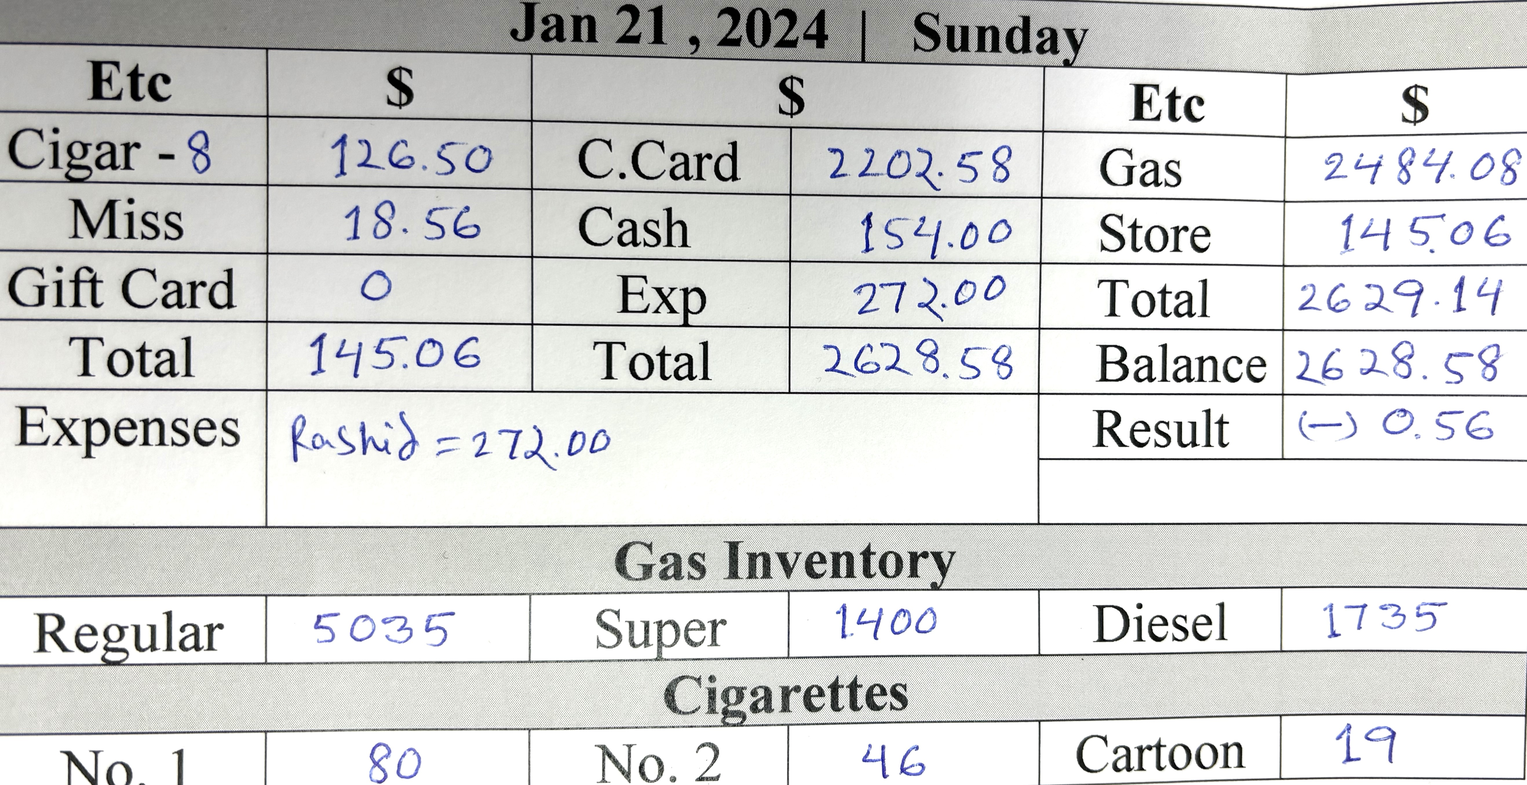
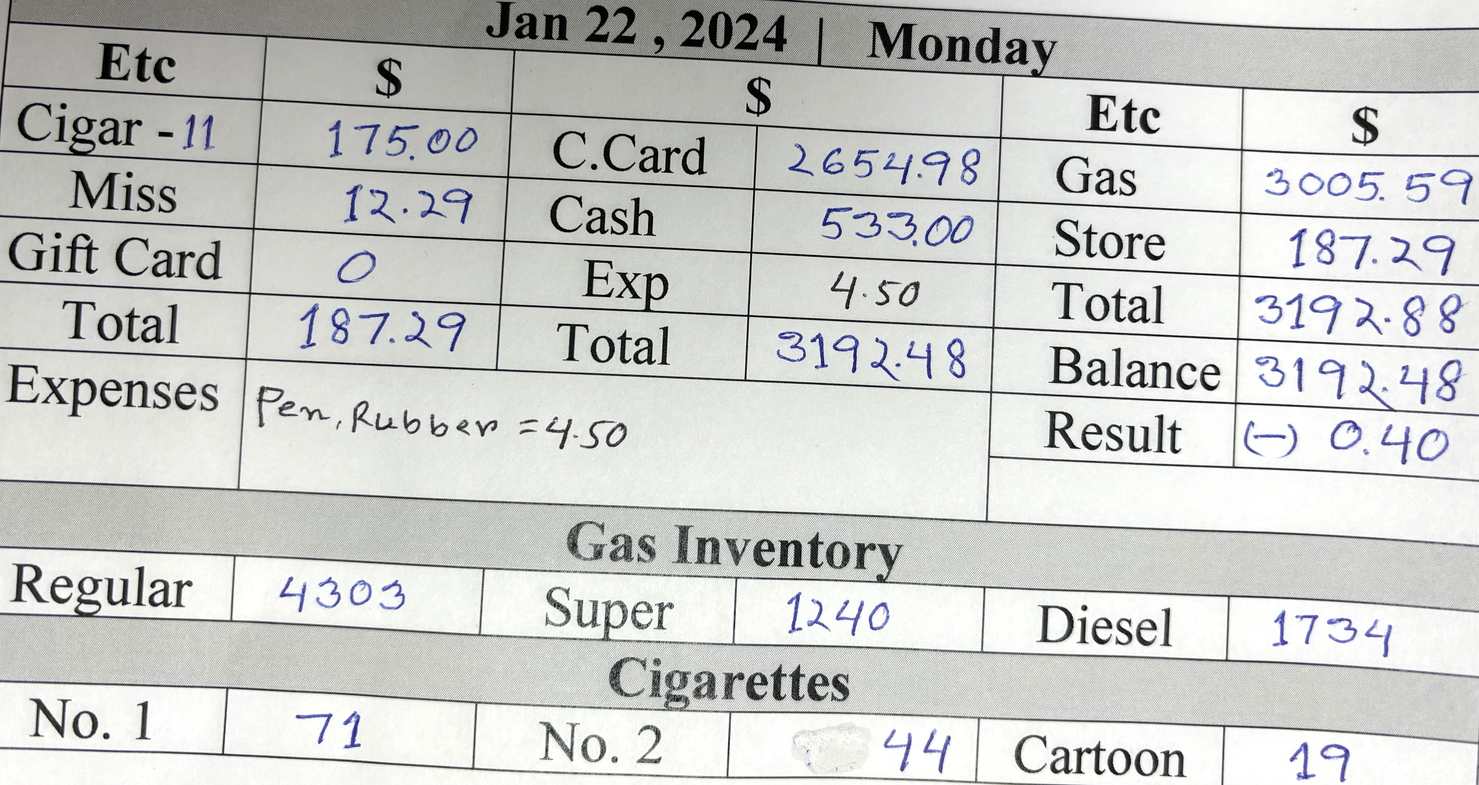
22 done

diff --git a/card.min.html b/card.min.html
@@ -1,1 +1,1 @@
-<!DOCTYPE html> <html lang="en"> <head> <meta charset="UTF-8"> <meta http-equiv="X-UA-Compatible" content="IE=edge"> <meta name="viewport" content="width=device-width,initial-scale=1"> <title>Gallon Info</title> <link rel="stylesheet" href="https://cdn.jsdelivr.net/npm/bootstrap@5.3.0-alpha1/dist/css/bootstrap.min.css"> </head> <body> <div class="card-group d-sm-flex flex-row bd-highlight mb- justify-content-center"> <div class="card bg-secondary align-items-center justify-content-center" style="height:50px"> <div class="card-body text-info fst-italic"> <h5 class="card-title fw-bolder text-center">Regular Price : <span class="text-warning">$3.09</span></h5> </div> </div> <div class="card bg-secondary align-items-center justify-content-center" style="height:50px"> <div class="card-body text-info fst-italic"> <h5 class="card-title fw-bolder text-center pt-">Silver Price : <span class="text-warning">$3.99</span></h5> </div> </div> <div class="card bg-secondary align-items-center justify-content-center" style="height:50px"> <div class="card-body text-info fst-italic"> <h5 class="card-title fw-bolder text-center">Super Price : <span class="text-warning">$4.09</span></h5> </div> </div> <div class="card bg-secondary align-items-center justify-content-center" style="height:50px"> <div class="card-body text-info fst-italic"> <h5 class="card-title fw-bolder text-center">Diesel Price : <span class="text-warning">$4.39</span></h5> </div> </div> </div> <div class="card-group"> <div class="card"> <button type="button" class="btn btn-warning text- fs- fw-bold text-uppercase"> For store Details <a title="printPage Me" class="text-bg-danger ms-3 fw-bolder p-1 rounded-3 text-decoration-none" href="index.html"> Click Me </a> </button> </div> </div> <div class="card-group m-0 d-sm-flex flex-row bd-highlight mb-"> <div class="card me-1 bg-info"> <h5 class="card-title text-center pt-4 m-0"> <button class="p-1 rounded-3" type="button"><a title="Click Me" class="text-decoration-none text-primary fw-bolder" href="index.html">   </a> </button> </h5>  <p class="card-text"></p> <img src="allPic/21.jpg" class="card-img-top text-danger text-center fw-bolder fs-3" alt="Call Rashid "> <div class="card-body">   <p class="card-text"></p> </div> </div> <div class="card me-1 bg-info"> <h5 class="card-title text-center pt-4 m-0"> <button class="p-1 rounded-3" type="button"><a title="Click Me" class="text-primary fw-bolder text-decoration-none" href="index.html"> Jan 20,2024 </a> </button> </h5>  <p class="card-text"></p> <img src="allPic/20.jpg" class="card-img-top text-center text-bg-danger" alt="Not Done"> <div class="card-body">   <p class="card-text"></p> </div> </div> <div class="card ms- bg-info"> <h5 class="card-title text-center pt-4 m-0"> <button class="p-1 rounded-3" type="button"><a title="Click Me" class="text-primary fw-bolder text-decoration-none" href="index.html"> Jan 19,2024 </a> </button> </h5>  <p class="card-text"></p> <img src="allPic/19.jpg" class="card-img-top text-center text-bg-danger" alt="Not Done"> <div class="card-body">   <p class="card-text"></p> </div> </div> <div class="card me-1 bg-info"> <h5 class="card-title text-center pt-4 m-0"> <button class="p-1 rounded-3" type="button"><a title="Click Me" class="text-primary fw-bolder text-decoration-none" href="index.html"> Jan 18,2024 </a> </button> </h5>  <p class="card-text"></p> <img title="Pic" src="allPic/18.jpg" class="card-img-top text-bg-danger fw-bolder text-center" alt="Already Done"> <div class="card-body">   <p class="card-text"></p> </div> </div> </div> <div class="card"> <div class="card-header bg-warning text-dark fw-bolder text-center py-3"> All Rights Reserved @ Jaber Ali , 2024 </div> </div>  <script type="text/javascript">const timeElement=document.querySelector(".time"),dateElement=document.querySelector(".date");function formatTime(e){e.getHours(),e.getMinutes(),e.getHours();return""}function formatDate(e){return` ${["January","February","March","April","May","June","July","August","September","October","November","December"][e.getMonth()]} ${e.getDate()-1}, ${e.getFullYear()}`}setInterval((()=>{const e=new Date;timeElement.textContent=formatTime(e),dateElement.textContent=formatDate(e)}),200)</script> 
+<!DOCTYPE html> <html lang="en"> <head> <meta charset="UTF-8"> <meta http-equiv="X-UA-Compatible" content="IE=edge"> <meta name="viewport" content="width=device-width,initial-scale=1"> <title>Gallon Info</title> <link rel="stylesheet" href="https://cdn.jsdelivr.net/npm/bootstrap@5.3.0-alpha1/dist/css/bootstrap.min.css"> </head> <body> <div class="card-group d-sm-flex flex-row bd-highlight mb- justify-content-center"> <div class="card bg-secondary align-items-center justify-content-center" style="height:50px"> <div class="card-body text-info fst-italic"> <h5 class="card-title fw-bolder text-center">Regular Price : <span class="text-warning">$3.09</span></h5> </div> </div> <div class="card bg-secondary align-items-center justify-content-center" style="height:50px"> <div class="card-body text-info fst-italic"> <h5 class="card-title fw-bolder text-center pt-">Silver Price : <span class="text-warning">$3.99</span></h5> </div> </div> <div class="card bg-secondary align-items-center justify-content-center" style="height:50px"> <div class="card-body text-info fst-italic"> <h5 class="card-title fw-bolder text-center">Super Price : <span class="text-warning">$4.09</span></h5> </div> </div> <div class="card bg-secondary align-items-center justify-content-center" style="height:50px"> <div class="card-body text-info fst-italic"> <h5 class="card-title fw-bolder text-center">Diesel Price : <span class="text-warning">$4.39</span></h5> </div> </div> </div> <div class="card-group"> <div class="card"> <button type="button" class="btn btn-warning text- fs- fw-bold text-uppercase"> For store Details <a title="printPage Me" class="text-bg-danger ms-3 fw-bolder p-1 rounded-3 text-decoration-none" href="index.html"> Click Me </a> </button> </div> </div> <div class="card-group m-0 d-sm-flex flex-row bd-highlight mb-"> <div class="card me-1 bg-info"> <h5 class="card-title text-center pt-4 m-0"> <button class="p-1 rounded-3" type="button"><a title="Click Me" class="text-decoration-none text-primary fw-bolder" href="index.html">   </a> </button> </h5>  <p class="card-text"></p> <img src="allPic/22.jpg" class="card-img-top text-danger text-center fw-bolder fs-3" alt="Call Rashid "> <div class="card-body">   <p class="card-text"></p> </div> </div> <div class="card me-1 bg-info"> <h5 class="card-title text-center pt-4 m-0"> <button class="p-1 rounded-3" type="button"><a title="Click Me" class="text-primary fw-bolder text-decoration-none" href="index.html"> Jan 21,2024 </a> </button> </h5>  <p class="card-text"></p> <img src="allPic/21.jpg" class="card-img-top text-center text-bg-danger" alt="Not Done"> <div class="card-body">   <p class="card-text"></p> </div> </div> <div class="card ms- bg-info"> <h5 class="card-title text-center pt-4 m-0"> <button class="p-1 rounded-3" type="button"><a title="Click Me" class="text-primary fw-bolder text-decoration-none" href="index.html"> Jan 20,2024 </a> </button> </h5>  <p class="card-text"></p> <img src="allPic/20.jpg" class="card-img-top text-center text-bg-danger" alt="Not Done"> <div class="card-body">   <p class="card-text"></p> </div> </div> <div class="card me-1 bg-info"> <h5 class="card-title text-center pt-4 m-0"> <button class="p-1 rounded-3" type="button"><a title="Click Me" class="text-primary fw-bolder text-decoration-none" href="index.html"> Jan 19,2024 </a> </button> </h5>  <p class="card-text"></p> <img title="Pic" src="allPic/19.jpg" class="card-img-top text-bg-danger fw-bolder text-center" alt="Already Done"> <div class="card-body">   <p class="card-text"></p> </div> </div> </div> <div class="card"> <div class="card-header bg-warning text-dark fw-bolder text-center py-3"> All Rights Reserved @ Jaber Ali , 2024 </div> </div>  <script type="text/javascript">const timeElement=document.querySelector(".time"),dateElement=document.querySelector(".date");function formatTime(e){e.getHours(),e.getMinutes(),e.getHours();return""}function formatDate(e){return` ${["January","February","March","April","May","June","July","August","September","October","November","December"][e.getMonth()]} ${e.getDate()-1}, ${e.getFullYear()}`}setInterval((()=>{const e=new Date;timeElement.textContent=formatTime(e),dateElement.textContent=formatDate(e)}),200)</script> 

diff --git a/weekly.min.html b/weekly.min.html
@@ -1,1 +1,1 @@
-<!DOCTYPE html> <html lang="en"> <meta charset="UTF-8"> <meta http-equiv="X-UA-Compatible" content="IE=edge"> <meta name="viewport" content="width=device-width,initial-scale=1"> <title>Cigarettes Info</title> <link rel="stylesheet" href="https://cdn.jsdelivr.net/npm/bootstrap@5.3.0-alpha1/dist/css/bootstrap.min.css">  <body> <div class="text-bg-success py-2 fw-bold"> <marquee behavior="" direction="">Weekly Total Sales Money</marquee> </div> <div class="container-fluid text-center m-0 p-0"> <div class="card-group"> <div class="card"> <button type="button" class="btn btn-warning fs- fw-bold text-uppercase"> Home Page <a title="printPage Me" class="text-bg-danger ms-2 fw-bolder p-1 rounded-3 text-decoration-none" href="index.html"> Click Me </a> </button> </div> </div> <div class="text-bg-info text-cente py- fw-bold mb-"> <div class="card-group m-0 d-sm-flex flex-row bd-highlight mb-"> <div class="card me- bg-inf"> <h5 class="text-center ms-5 mt-3 text-danger">Current Week</h5> <div class="card-body ms-3 p-0"> <table class="table"> <tr class="text-end"> <td>Monday </td> <td>:</td> <td class="text-start"> $ 0.00</td> </tr> <tr class="text-end"> <td>Tuesday </td> <td> :</td> <td class="text-start"> $ 0.00</td> </tr> <tr class="text-end"> <td>Wednesday</td> <td> :</td> <td class="text-start">$ 0.00</td> </tr> <tr class="text-end"> <td>Thursday </td> <td> :</td> <td class="text-start"> $ 0.00 </td> </tr> <tr class="text-end"> <td class="">Friday </td> <td> :</td> <td class="text-start"> $ 0.00 </td> </tr> <tr class="text-end"> <td>Saturday </td> <td> :</td> <td class="text-start">0.00</td> </tr> <tr class="text-end"> <td>Sunday </td> <td> :</td> <td class="text-start">0.00 </td> </tr> <tr class="text-end"> <td>Auto Money </td> <td> :</td> <td class="text-start"> 0.00</td> </tr> </table> <div class="m-0 p-0"> <p class="text-center text-danger bg-light fw-bold">Total Money : $ 00</p> </div> </div> </div> <div class="card me- bg-inf"> <h5 class="text-center ms-5 mt-3 text-danger">Last Week : Jan 15 to 21 , 2024</h5> <div class="card-body ms-3 p-0"> <table class="table"> <tr class="text-end"> <td>Monday </td> <td>:</td> <td class="text-start"> $ 594.00</td> </tr> <tr class="text-end"> <td>Tuesday </td> <td> :</td> <td class="text-start"> $ 490.00</td> </tr> <tr class="text-end"> <td>Wednesday</td> <td> :</td> <td class="text-start">$ 414.00</td> </tr> <tr class="text-end"> <td>Thursday </td> <td> :</td> <td class="text-start"> $ 390.00 </td> </tr> <tr class="text-end"> <td class="">Friday </td> <td> :</td> <td class="text-start"> $ 331.00 </td> </tr> <tr class="text-end"> <td>Saturday </td> <td> :</td> <td class="text-start">337.00</td> </tr> <tr class="text-end"> <td>Sunday </td> <td> :</td> <td class="text-start">426.00 </td> </tr> <tr class="text-end"> <td>Auto Money </td> <td> :</td> <td class="text-start"> 457.00</td> </tr> </table> <div class="m-0 p-0"> <p class="text-center text-danger bg-light fw-bold">Total Money : $ 3439 - 1097 = 2342</p> </div> </div> </div> <div class="card me- bg-"> <div class="card-body"> <h5 class="text-start text-danger ms-2">Expenses of Last Week</h5> <table class="table text-start"> <tr> <td class="">Ali <span class="ms-5">: $ 525.00</span></td> </tr> <tr> <td class="">Rashid <span class="ms-2">: $ 572.00</span></td> </tr> <tr> </tr> <tr> <td class="text-bg-warning text-dark rounded-2">Total <span class="ms-4">: $ 1097.00</span></td> </tr> </table> </div> </div> </div> </div> <!-- #footer start --> <div class="text-bg-success text-center py-2 fw-bold"> <p> All Rights Reserved @ Jaber Ali , 2023  </p> </div> </div> <script type="text/javascript">function printPage(){window.print()}</script> 
+<!DOCTYPE html> <html lang="en"> <meta charset="UTF-8"> <meta http-equiv="X-UA-Compatible" content="IE=edge"> <meta name="viewport" content="width=device-width,initial-scale=1"> <title>Cigarettes Info</title> <link rel="stylesheet" href="https://cdn.jsdelivr.net/npm/bootstrap@5.3.0-alpha1/dist/css/bootstrap.min.css">  <body> <div class="text-bg-success py-2 fw-bold"> <marquee behavior="" direction="">Weekly Total Sales Money</marquee> </div> <div class="container-fluid text-center m-0 p-0"> <div class="card-group"> <div class="card"> <button type="button" class="btn btn-warning fs- fw-bold text-uppercase"> Home Page <a title="printPage Me" class="text-bg-danger ms-2 fw-bolder p-1 rounded-3 text-decoration-none" href="index.html"> Click Me </a> </button> </div> </div> <div class="text-bg-info text-cente py- fw-bold mb-"> <div class="card-group m-0 d-sm-flex flex-row bd-highlight mb-"> <div class="card me- bg-inf"> <h5 class="text-center ms-5 mt-3 text-danger">Current Week</h5> <div class="card-body ms-3 p-0"> <table class="table"> <tr class="text-end"> <td>Monday </td> <td>:</td> <td class="text-start"> $ 537.00</td> </tr> <tr class="text-end"> <td>Tuesday </td> <td> :</td> <td class="text-start"> $ 0.00</td> </tr> <tr class="text-end"> <td>Wednesday</td> <td> :</td> <td class="text-start">$ 0.00</td> </tr> <tr class="text-end"> <td>Thursday </td> <td> :</td> <td class="text-start"> $ 0.00 </td> </tr> <tr class="text-end"> <td class="">Friday </td> <td> :</td> <td class="text-start"> $ 0.00 </td> </tr> <tr class="text-end"> <td>Saturday </td> <td> :</td> <td class="text-start">0.00</td> </tr> <tr class="text-end"> <td>Sunday </td> <td> :</td> <td class="text-start">0.00 </td> </tr> <tr class="text-end"> <td>Auto Money </td> <td> :</td> <td class="text-start"> 0.00</td> </tr> </table> <div class="m-0 p-0"> <p class="text-center text-danger bg-light fw-bold">Total Money : $ 00</p> </div> </div> </div> <div class="card me- bg-inf"> <h5 class="text-center ms-5 mt-3 text-danger">Last Week : Jan 15 to 21 , 2024</h5> <div class="card-body ms-3 p-0"> <table class="table"> <tr class="text-end"> <td>Monday </td> <td>:</td> <td class="text-start"> $ 594.00</td> </tr> <tr class="text-end"> <td>Tuesday </td> <td> :</td> <td class="text-start"> $ 490.00</td> </tr> <tr class="text-end"> <td>Wednesday</td> <td> :</td> <td class="text-start">$ 414.00</td> </tr> <tr class="text-end"> <td>Thursday </td> <td> :</td> <td class="text-start"> $ 390.00 </td> </tr> <tr class="text-end"> <td class="">Friday </td> <td> :</td> <td class="text-start"> $ 331.00 </td> </tr> <tr class="text-end"> <td>Saturday </td> <td> :</td> <td class="text-start">337.00</td> </tr> <tr class="text-end"> <td>Sunday </td> <td> :</td> <td class="text-start">426.00 </td> </tr> <tr class="text-end"> <td>Auto Money </td> <td> :</td> <td class="text-start"> 457.00 [Mostofa=451]</td> </tr> </table> <div class="m-0 p-0"> <p class="text-center text-danger bg-light fw-bold">Total Money : $ 3439 - 1097 = 2342</p> </div> </div> </div> <div class="card me- bg-"> <div class="card-body"> <h5 class="text-start text-danger ms-2">Expenses of Last Week</h5> <table class="table text-start"> <tr> <td class="">Ali <span class="ms-5">: $ 525.00</span></td> </tr> <tr> <td class="">Rashid <span class="ms-2">: $ 572.00</span></td> </tr> <tr> </tr> <tr> <td class="text-bg-warning text-dark rounded-2">Total <span class="ms-4">: $ 1097.00</span></td> </tr> </table> </div> </div> </div> </div> <!-- #footer start --> <div class="text-bg-success text-center py-2 fw-bold"> <p> All Rights Reserved @ Jaber Ali , 2023  </p> </div> </div> <script type="text/javascript">function printPage(){window.print()}</script> 

diff --git a/index.min.html b/index.min.html
@@ -1,1 +1,1 @@
-<!DOCTYPE html> <html lang="en"> <head> <meta charset="UTF-8"> <meta http-equiv="X-UA-Compatible" content="IE=edge"> <meta name="viewport" content="width=device-width,initial-scale=1"> <title>Store Info</title> <link rel="stylesheet" href="https://cdn.jsdelivr.net/npm/bootstrap@5.3.0-alpha1/dist/css/bootstrap.min.css"> </head> <body> <div class="text-bg-success py-2 fw-bold text-uppercase"> <marquee behavior="" direction=""><span class="text-bolder text-bg-danger rounded-circle m-lg-2 fs-">***</span> Personal Business Information <span class="text-bolder text-bg-danger rounded-circle m-lg-2 fs-">***</span></marquee> </div> <div class="card-group"> <div class="card"> <button type="button" class="btn btn-warning fs- fw-bold text-uppercase"> For Gallon Details <a title="printPage Me" class="text-bg-danger ms-3 fw-bolder p-1 rounded-3 text-decoration-none" href="card.html"> Click Me </a> </button> </div> </div> <div class="card-group"> <div class="card"> <button type="button" class="btn btn-warning fs- fw-bold text-uppercase"> Order Cigarettes <a title="printPage Me" class="text-bg-danger ms-3 fw-bolder p-1 rounded-3 text-decoration-none" href="cigarettes.html"> Click Me </a> </button> </div> <div class="card"> <button type="button" class="btn btn-warning fs- fw-bold text-uppercase"> Weekly Total Money<a title="printPage Me" class="text-bg-danger ms-3 fw-bolder p-1 rounded-3 text-decoration-none" href="weekly.html"> Click Me </a> </button> </div> </div> <div class="text-center py-2"> <button class="fw-bold fs-5 rounded-2 text-bg-light text-primary"> <a title="printPage Me" class="text-decoration-none" href="card.html">   <span class=""> <button class="ms-5 fw-bolder rounded-2" onclick="printPage()"> Print Me </button></span> </a> </button> </div> <div class="card-group"> <div class="card"> <button type="button" class="btn btn-info fs- fw-bold text-uppercase"> Shift Report <span class="text-white ms-1">*</span> </button> <img src="allPic/hisab.jpg" class="card-img-top text-center text-bg-danger" alt="NOT FINISH"> </div> </div> <div class="card-grou"> <div class="card pb-3"> <button type="button" class="btn btn-secondary fs fw-bold text-uppercase"> Exp : <span class="text-warning ms-3">rashid : 272+300 </span> </button> </div> </div> <div class="card-group"> <div class="card"> <button type="button" class="btn btn-secondary fs- fw-bold text-uppercase"> Auto shop </button> </div> </div> <div class="pb-3"> <div class="d-flex justify-content-around border border-dark fw-bolder"> <div class="p-0 text-info">T.M</div> <div class="p-0 text-danger">1305</div> <div class="p-0 text-info">Etc</div> <div class="p-0 text-danger">403</div> <div class="p-0 text-info">Rest</div> <div class="p-0 text-danger">902 = 451</div> </div> </div> <!-- #footer start --> <div class="text-bg-warning text-center py-3 fw-bold"> All Rights Reserved @ Jaber Ali , 2024 </div>  <script type="text/javascript">function printPage(){window.print()}const timeElement=document.querySelector(".time"),dateElement=document.querySelector(".date");function formatTime(t){const e=t.getHours()%12||12,n=t.getMinutes(),r=t.getHours()<12;return`${e.toString().padStart(2,"0")}:${n.toString().padStart(2,"0")} ${r?"AM":"PM"}`}function formatDate(t){return` ${["January","February","March","April","May","June","July","August","September","October","November","December"][t.getMonth()]} ${t.getDate()-1}, ${t.getFullYear()}`}setInterval((()=>{const t=new Date;timeElement.textContent=formatTime(t),dateElement.textContent=formatDate(t)}),200)</script> 
+<!DOCTYPE html> <html lang="en"> <head> <meta charset="UTF-8"> <meta http-equiv="X-UA-Compatible" content="IE=edge"> <meta name="viewport" content="width=device-width,initial-scale=1"> <title>Store Info</title> <link rel="stylesheet" href="https://cdn.jsdelivr.net/npm/bootstrap@5.3.0-alpha1/dist/css/bootstrap.min.css"> </head> <body> <div class="text-bg-success py-2 fw-bold text-uppercase"> <marquee behavior="" direction=""><span class="text-bolder text-bg-danger rounded-circle m-lg-2 fs-">***</span> Personal Business Information <span class="text-bolder text-bg-danger rounded-circle m-lg-2 fs-">***</span></marquee> </div> <div class="card-group"> <div class="card"> <button type="button" class="btn btn-warning fs- fw-bold text-uppercase"> For Gallon Details <a title="printPage Me" class="text-bg-danger ms-3 fw-bolder p-1 rounded-3 text-decoration-none" href="card.html"> Click Me </a> </button> </div> </div> <div class="card-group"> <div class="card"> <button type="button" class="btn btn-warning fs- fw-bold text-uppercase"> Order Cigarettes <a title="printPage Me" class="text-bg-danger ms-3 fw-bolder p-1 rounded-3 text-decoration-none" href="cigarettes.html"> Click Me </a> </button> </div> <div class="card"> <button type="button" class="btn btn-warning fs- fw-bold text-uppercase"> Weekly Total Money<a title="printPage Me" class="text-bg-danger ms-3 fw-bolder p-1 rounded-3 text-decoration-none" href="weekly.html"> Click Me </a> </button> </div> </div> <div class="text-center py-2"> <button class="fw-bold fs-5 rounded-2 text-bg-light text-primary"> <a title="printPage Me" class="text-decoration-none" href="card.html">   <span class=""> <button class="ms-5 fw-bolder rounded-2" onclick="printPage()"> Print Me </button></span> </a> </button> </div> <div class="card-group"> <div class="card"> <button type="button" class="btn btn-info fs- fw-bold text-uppercase"> Shift Report <span class="text-white ms-1">*</span> </button> <img src="allPic/hisab.jpg" class="card-img-top text-center text-bg-danger" alt="NOT FINISH"> </div> </div> <div class="card-grou"> <div class="card pb-3"> <button type="button" class="btn btn-secondary fs fw-bold text-uppercase"> Exp : <span class="text-warning ms-3">4.50</span> </button> </div> </div> <div class="card-group"> <div class="card"> <button type="button" class="btn btn-secondary fs- fw-bold text-uppercase"> Auto shop </button> </div> </div> <div class="pb-3"> <div class="d-flex justify-content-around border border-dark fw-bolder"> <div class="p-0 text-info">T.M</div> <div class="p-0 text-danger">1305</div> <div class="p-0 text-info">Etc</div> <div class="p-0 text-danger">403</div> <div class="p-0 text-info">Rest</div> <div class="p-0 text-danger">902 = 451</div> </div> </div> <!-- #footer start --> <div class="text-bg-warning text-center py-3 fw-bold"> All Rights Reserved @ Jaber Ali , 2024 </div>  <script type="text/javascript">function printPage(){window.print()}const timeElement=document.querySelector(".time"),dateElement=document.querySelector(".date");function formatTime(t){const e=t.getHours()%12||12,n=t.getMinutes(),r=t.getHours()<12;return`${e.toString().padStart(2,"0")}:${n.toString().padStart(2,"0")} ${r?"AM":"PM"}`}function formatDate(t){return` ${["January","February","March","April","May","June","July","August","September","October","November","December"][t.getMonth()]} ${t.getDate()-1}, ${t.getFullYear()}`}setInterval((()=>{const t=new Date;timeElement.textContent=formatTime(t),dateElement.textContent=formatDate(t)}),200)</script> 

diff --git a/card.html b/card.html
@@ -67,7 +67,7 @@
         </h5>
           <p class="card-text"></p>
           <p class="card-text"><small class="text-muted"></small></p>
-        <img src="allPic/21.jpg" class="card-img-top text-danger text-center fw-bolder fs-3"   alt="Call Rashid ">
+        <img src="allPic/22.jpg" class="card-img-top text-danger text-center fw-bolder fs-3"   alt="Call Rashid ">
         <div class="card-body">
           <h5 class="card-title"></h5>
           <p class="card-text"></p>
@@ -78,13 +78,13 @@
         <h5 class="card-title text-center pt-4 m-0">
           <button class="p-1 rounded-3" type="button"><a title="Click Me"
              class="text-primary fw-bolder text-decoration-none " href="index.html">
-             Jan 20,2024
+             Jan 21,2024
           </a>
           </button>
         </h5>
           <p class="card-text"></p>
           <p class="card-text"><small class="text-muted"></small></p>
-        <img src="allPic/20.jpg" class="card-img-top text-center text-bg-danger" 
+        <img src="allPic/21.jpg" class="card-img-top text-center text-bg-danger" 
         alt="Not Done">
         <div class="card-body">
           <h5 class="card-title"></h5>
@@ -96,13 +96,13 @@
         <h5 class="card-title text-center pt-4 m-0 ">
           <button class="p-1 rounded-3" type="button"><a title="Click Me" 
             class="text-primary fw-bolder text-decoration-none " href="index.html">
-            Jan 19,2024         
+            Jan 20,2024         
           </a>
           </button>
           </h5>
           <p class="card-text"></p>
           <p class="card-text"><small class="text-muted"></small></p>
-        <img src="allPic/19.jpg" class="card-img-top text-center text-bg-danger" 
+        <img src="allPic/20.jpg" class="card-img-top text-center text-bg-danger" 
         alt="Not Done">
         <div class="card-body">
           <h5 class="card-title"></h5>
@@ -115,13 +115,13 @@
         <h5 class="card-title text-center pt-4 m-0 ">
           <button class="p-1 rounded-3" type="button"><a title="Click Me" 
             class="text-primary fw-bolder text-decoration-none " href="index.html">
-             Jan 18,2024
+             Jan 19,2024
             </a>
           </button>
           </h5>
           <p class="card-text"></p>
           <p class="card-text"><small class="text-muted"></small></p>
-        <img title="Pic" src="allPic/18.jpg" class="card-img-top  text-bg-danger fw-bolder text-center"
+        <img title="Pic" src="allPic/19.jpg" class="card-img-top  text-bg-danger fw-bolder text-center"
          alt="Already Done">
         <div class="card-body">
           <h5 class="card-title"></h5>

diff --git a/weekly.html b/weekly.html
@@ -49,7 +49,7 @@
                 <tr class="text-end">
                     <td >Monday </td>
                     <td >:</td>
-                    <td class="text-start"> $ 0.00</td>
+                    <td class="text-start"> $ 537.00</td>
                 </tr>
                 <tr class=" text-end">
                     <td>Tuesday </td>
@@ -137,7 +137,7 @@
       <tr class=" text-end">
         <td>Auto Money </td>
         <td> :</td>
-        <td class="text-start"> 457.00</td>
+        <td class="text-start"> 457.00 [Mostofa=451]</td>
     </tr>
 
   </table>

diff --git a/index.html b/index.html
@@ -85,8 +85,8 @@
         <button
           type="button"
           class="btn btn-secondary fs fw-bold text-uppercase">
-         Exp  :  <span class="text-warning ms-3">rashid :  272+300 </span>
-         <!-- Exp  : <span class="text-warning ms-3">0</span> -->
+         <!-- Exp  :  <span class="text-warning ms-3">rashid :  272+300 </span> -->
+         Exp  : <span class="text-warning ms-3">4.50</span>
         </button> 
       </div>
     </div>
